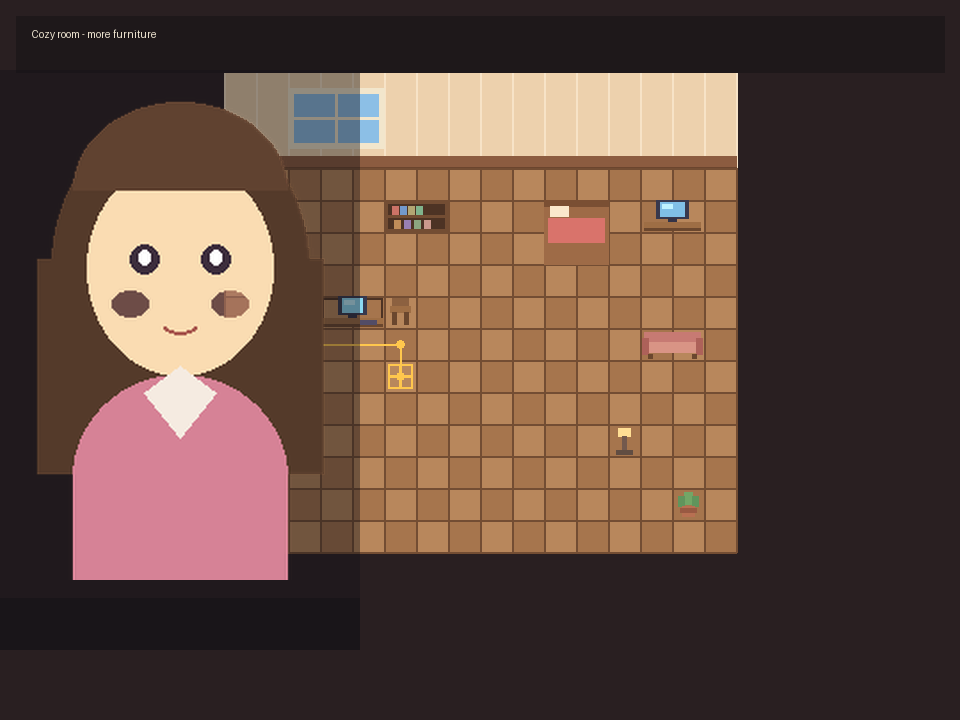
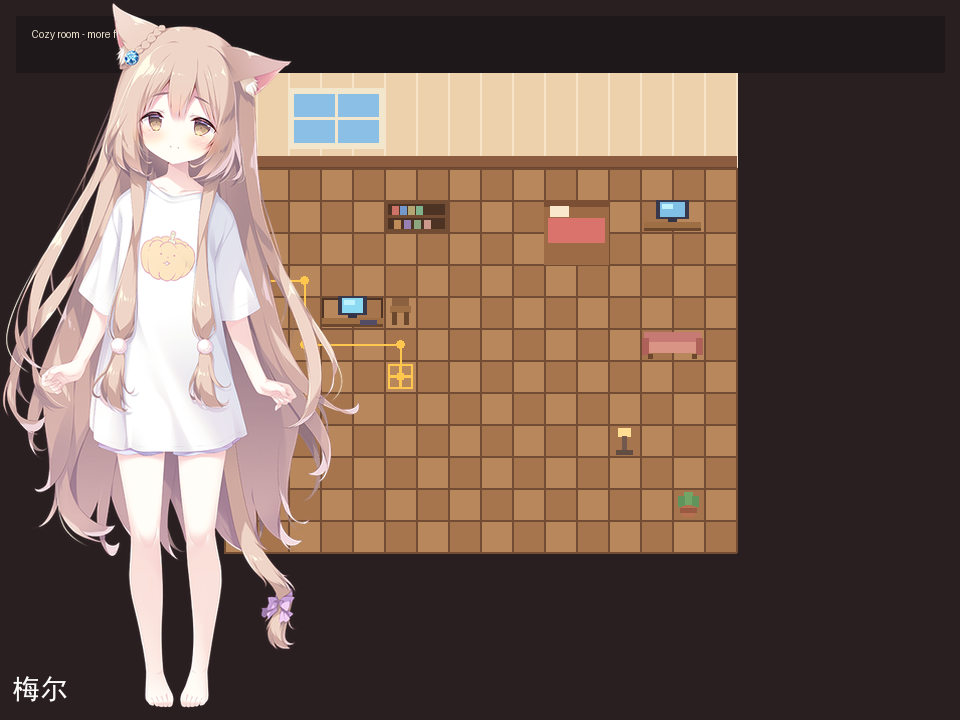
fix: 像素图提升至32x32并修复立绘叠图与边缘对齐
- 梅尔像素图重绘为32x32，运行时0.5缩放显示（更精细更像原图）
- 增加睁眼/闭眼待机帧与更自然的行走帧
- 左侧立绘去掉半透明底，直接叠加原图
- 立绘贴屏幕左边缘上下对齐，不再留白边
- 更新资源规范与文档

Changed region(s): [[0.0, 0.0, 0.375, 1.0], [0.0, 0.9472, 0.0625, 0.9778]]

diff --git a/assets/chars/README.md b/assets/chars/README.md
@@ -10,9 +10,9 @@ assets/chars/char_03/
 ├── Mea人设.md            # （可选）人设原始文稿，保留来源
 ├── mea原图.png           # （可选）原图源文件
 └── sprites/
-    ├── idle_0.png        # 待机帧（16×16，透明背景）
+    ├── idle_0.png        # 待机帧（32×32 源图，透明背景）
     ├── idle_1.png
-    ├── walk_0.png        # 行走帧
+    ├── walk_0.png        # 行走帧（32×32 源图）
     ├── walk_1.png
     ├── walk_2.png
     └── walk_3.png
@@ -37,7 +37,7 @@ assets/chars/char_03/
 
 ## 像素图规范
 
-- 尺寸：16×16（与当前网格一致，后续可升级 32×32）
+- 源图尺寸：32×32（运行时按 0.5 缩放显示，与 16×16 网格对齐）
 - 透明背景
 - 至少提供：`idle_0/1`、`walk_0~3`
 - 动画配置见 `anim_map.json`

diff --git a/doc/开发文档.md b/doc/开发文档.md
@@ -13,7 +13,7 @@
 - 当前初始角色：`char_03`（梅尔）
 - 角色目录规范：`assets/chars/README.md`
 - 立绘：`assets/chars/char_03/portrait.png`
-- 像素帧：`assets/chars/char_03/sprites/`（16×16 idle/walk）
+- 像素帧：`assets/chars/char_03/sprites/`（32×32 源图，运行时 0.5 缩放）
 - 人设：`assets/chars/char_03/persona.json`
 
 ### 主场景 `scenes/main.tscn`
@@ -21,7 +21,7 @@
 - 子节点：
   - `Room/Character`：角色
   - `UI/StatusLabel`：状态提示
-  - `UI/PortraitLayer`：左侧角色立绘叠加层（占位图，鼠标穿透，不影响房间点击）
+  - `UI/PortraitLayer`：左侧角色立绘叠加层（直接叠图、贴左边缘，鼠标穿透，不影响房间点击）
   - 运行时动态加入 `UI/ComputerPanel`
 
 ### 角色控制 `scripts/char/char_controller.gd`

diff --git a/doc/交互系统.md b/doc/交互系统.md
@@ -2,7 +2,7 @@
 
 ## 界面布局
 
-- 左侧：角色立绘叠加层（占位图，固定在屏幕左端，不移动房间位置）
+- 左侧：角色立绘叠加层（直接叠图、贴屏幕左边缘，不移动房间位置）
 - 右侧/中央：像素房间、角色移动与交互
 - 电脑系统界面：居中弹出的仿操作系统窗口
 
